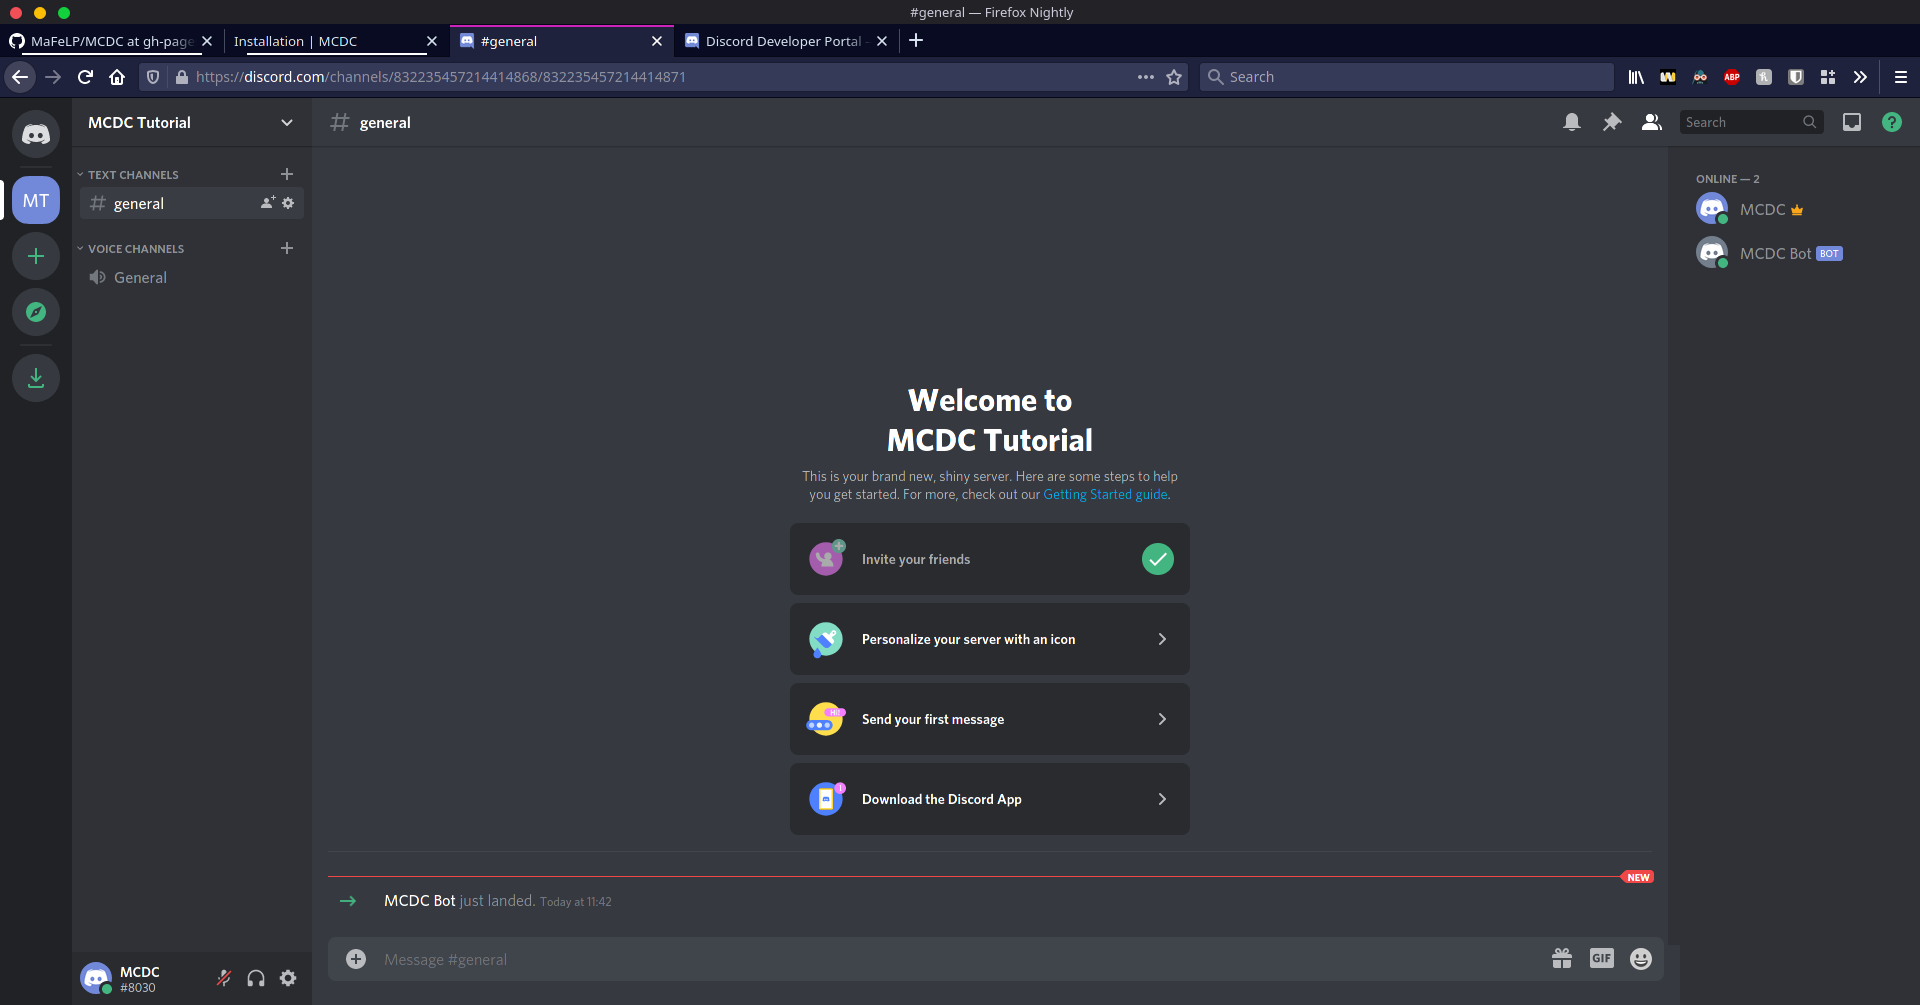
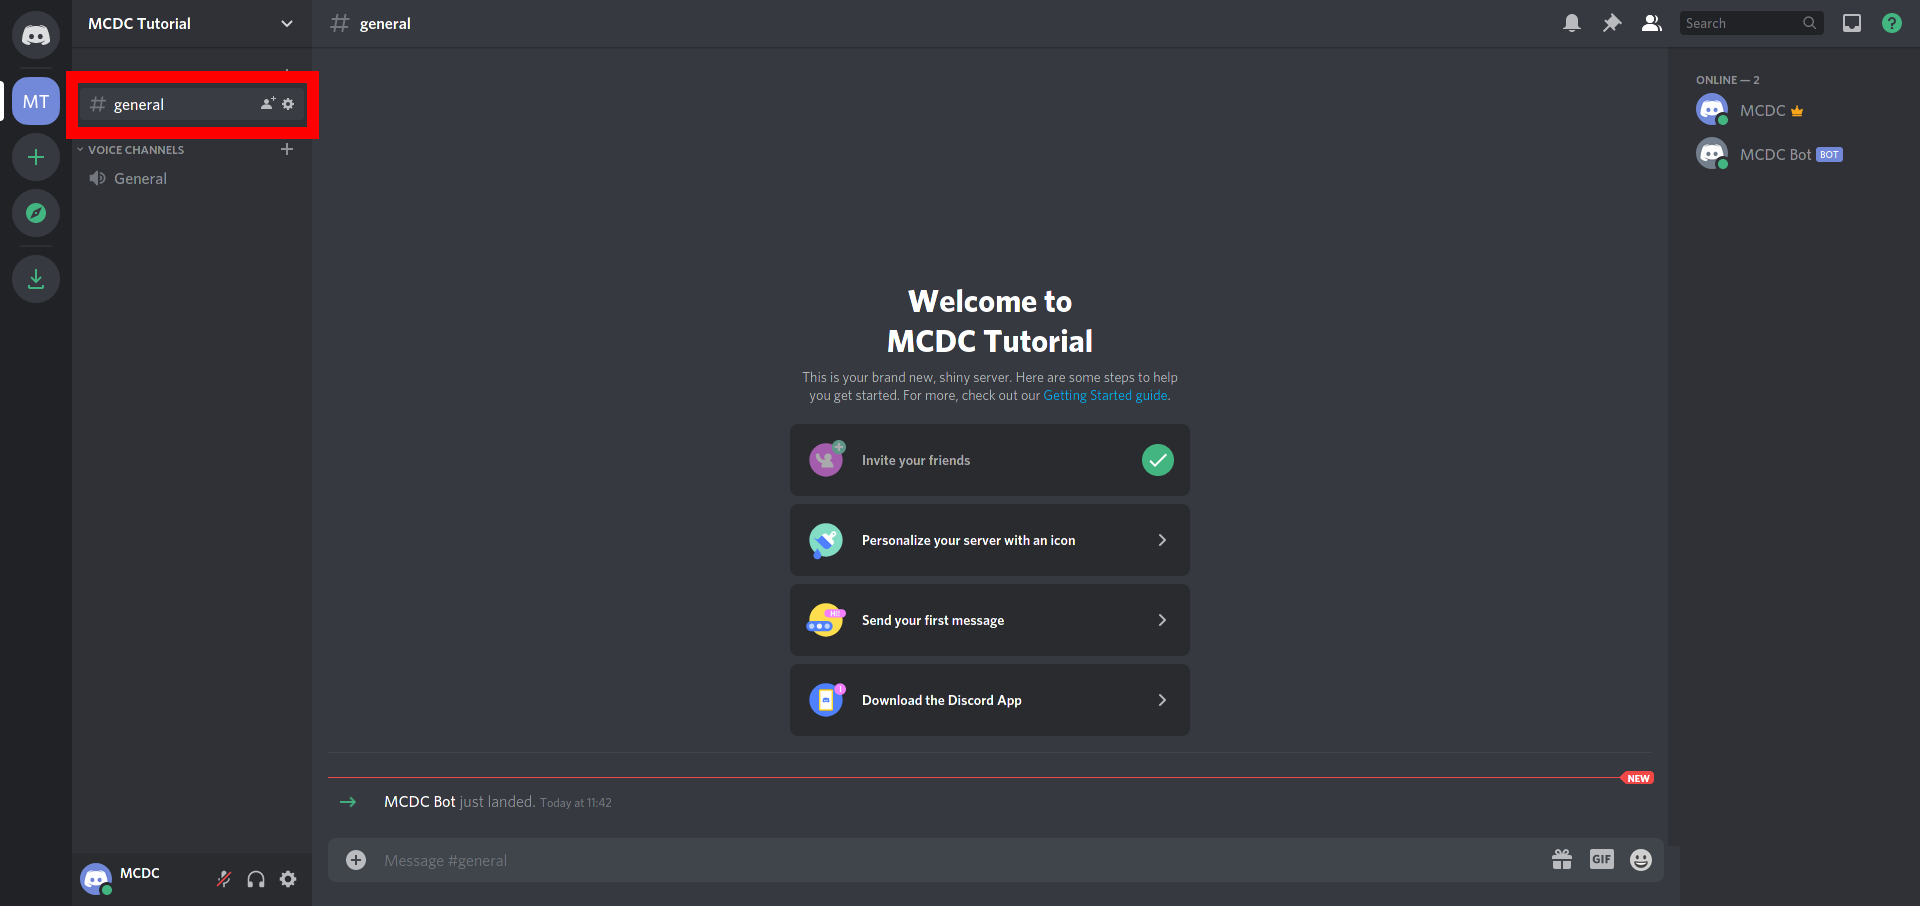
➕ Added instructions on how to get the ID of a channel on ./get-channel-id 🕶 Added privacy respects to the channelID pictures.

diff --git a/get-channel-ID.md b/get-channel-ID.md
@@ -1,0 +1,26 @@
+# Get channel ID
+1. In your discord App, in the bottom left corner, click on the `User settings` wheel.
+![Open User Settings](./assets/channelID/1.png)
+2. In the left Side bar, now lcik on `Advanced`.
+![Switch to Advanced Tap](./assets/channeldID/2.png)
+3. In the top right corner, now enable the developer mode, by clicking the slider, until it is green.
+![Enable Developer mode](./assets/channelID/3.png)
+4. Now close the User Settings, by hitting the `Escape Key` or clicking on the `X` in the top right corner.
+![Close the User Settings](./assets/channelID/4.png)
+5. Right click on the channel you want to get the ID of.
+![Open Context Menu of Channel](./assets/channelID/5.png)
+6. Click the `Copy ID button`.
+![Copy the ID](./assets/channelID/6.png)
+
+The ID is copied to your clipboard and you can add this channel to the channels, to which the plugin braodcasts minecraft messages, by executing the command
+```
+/config add channelIDs <Ctrl + Shift + V to paste the ID>
+```
+
+as a player or 
+
+```
+config add channelIDs <Ctrl + Shift + V to paste the ID>
+```
+
+in the console.

diff --git a/index.md b/index.md
@@ -36,10 +36,7 @@ See [configuration](./configuration) for more information.
 ---
 
 ### Get the ID of a text channel:
-1. In your discord app open the user settings (next to your mute buttons)
-2. Go to the tab `Appearence`
-3. Scroll down and in the tab `Advanced` check the box `Developer Mode`
-4. Close the settings and right click on a text channel. Then click `Copy ID`
+See [get the channel ID](./get-channel-ID) for information on this.
 
 ---
 
